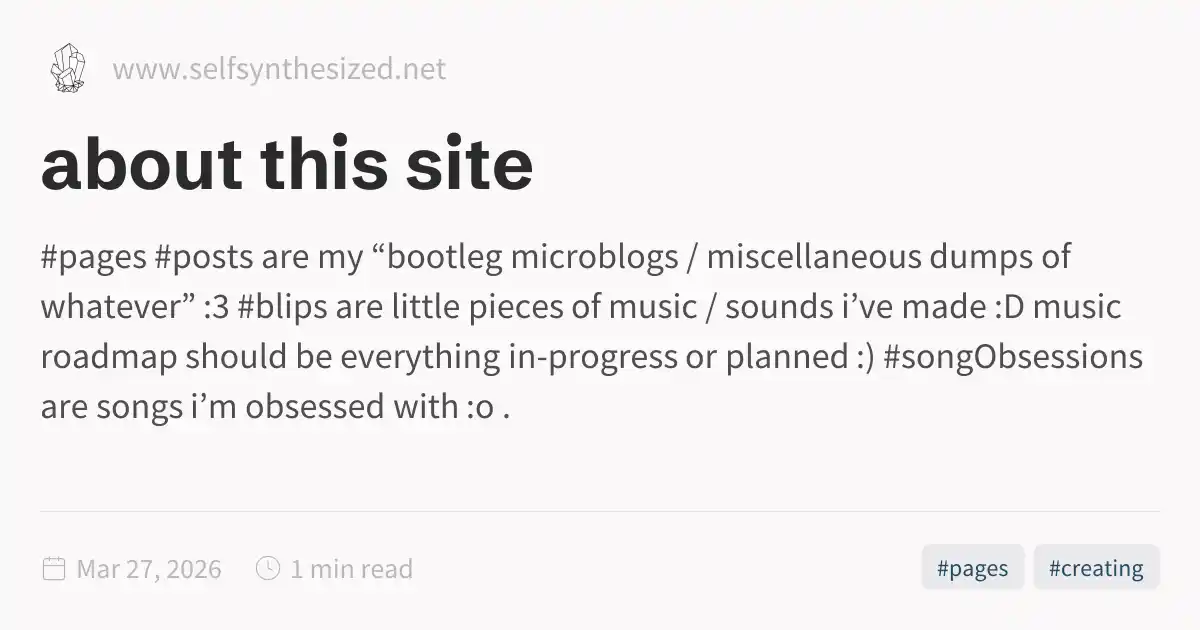
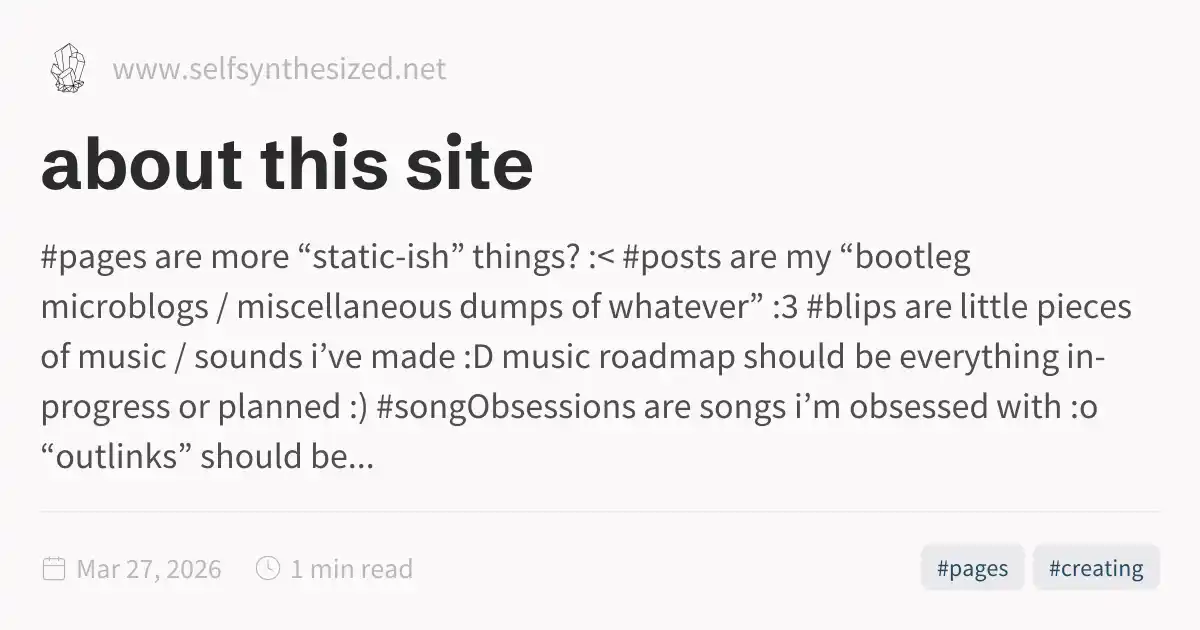
update

Changed region(s): [[0.0308, 0.3921, 0.9558, 0.5127], [0.0308, 0.5429, 0.9558, 0.6032], [0.0308, 0.6333, 0.925, 0.754]]

diff --git a/docs/pages/about-this-site.html b/docs/pages/about-this-site.html
@@ -1,5 +1,5 @@
 <!DOCTYPE html>
-<html lang="en" dir="ltr"><head><title>about this site</title><meta charset="utf-8"/><link rel="preconnect" href="https://fonts.googleapis.com"/><link rel="preconnect" href="https://fonts.gstatic.com"/><link rel="stylesheet" href="https://fonts.googleapis.com/css2?family=Schibsted Grotesk:wght@400;700&amp;family=Source Sans Pro:ital,wght@0,400;0,600;1,400;1,600&amp;family=IBM Plex Mono:wght@400;600&amp;display=swap"/><link rel="preconnect" href="https://cdnjs.cloudflare.com" crossorigin="anonymous"/><meta name="viewport" content="width=device-width, initial-scale=1.0"/><meta name="og:site_name" content="selfsynthesized"/><meta property="og:title" content="about this site"/><meta property="og:type" content="website"/><meta name="twitter:card" content="summary_large_image"/><meta name="twitter:title" content="about this site"/><meta name="twitter:description" content="#pages #posts are my “bootleg microblogs / miscellaneous dumps of whatever” :3 #blips are little pieces of music / sounds i’ve made :D music roadmap should be everything in-progress or planned :) #songObsessions are songs i’m obsessed with :o ."/><meta property="og:description" content="#pages #posts are my “bootleg microblogs / miscellaneous dumps of whatever” :3 #blips are little pieces of music / sounds i’ve made :D music roadmap should be everything in-progress or planned :) #songObsessions are songs i’m obsessed with :o ."/><meta property="og:image:alt" content="#pages #posts are my “bootleg microblogs / miscellaneous dumps of whatever” :3 #blips are little pieces of music / sounds i’ve made :D music roadmap should be everything in-progress or planned :) #songObsessions are songs i’m obsessed with :o ."/><meta property="twitter:domain" content="www.selfsynthesized.net"/><meta property="og:url" content="https://www.selfsynthesized.net/pages/about-this-site"/><meta property="twitter:url" content="https://www.selfsynthesized.net/pages/about-this-site"/><link rel="icon" href="../static/icon.png"/><meta name="description" content="#pages #posts are my “bootleg microblogs / miscellaneous dumps of whatever” :3 #blips are little pieces of music / sounds i’ve made :D music roadmap should be everything in-progress or planned :) #songObsessions are songs i’m obsessed with :o ."/><meta name="generator" content="Quartz"/><link href="../index.css" rel="stylesheet" type="text/css" data-persist="true"/><style>.expand-button {
+<html lang="en" dir="ltr"><head><title>about this site</title><meta charset="utf-8"/><link rel="preconnect" href="https://fonts.googleapis.com"/><link rel="preconnect" href="https://fonts.gstatic.com"/><link rel="stylesheet" href="https://fonts.googleapis.com/css2?family=Schibsted Grotesk:wght@400;700&amp;family=Source Sans Pro:ital,wght@0,400;0,600;1,400;1,600&amp;family=IBM Plex Mono:wght@400;600&amp;display=swap"/><link rel="preconnect" href="https://cdnjs.cloudflare.com" crossorigin="anonymous"/><meta name="viewport" content="width=device-width, initial-scale=1.0"/><meta name="og:site_name" content="selfsynthesized"/><meta property="og:title" content="about this site"/><meta property="og:type" content="website"/><meta name="twitter:card" content="summary_large_image"/><meta name="twitter:title" content="about this site"/><meta name="twitter:description" content="#pages are more “static-ish” things? :&lt; #posts are my “bootleg microblogs / miscellaneous dumps of whatever” :3 #blips are little pieces of music / sounds i’ve made :D music roadmap should be everything in-progress or planned :) #songObsessions are songs i’m obsessed with :o “outlinks” should be..."/><meta property="og:description" content="#pages are more “static-ish” things? :&lt; #posts are my “bootleg microblogs / miscellaneous dumps of whatever” :3 #blips are little pieces of music / sounds i’ve made :D music roadmap should be everything in-progress or planned :) #songObsessions are songs i’m obsessed with :o “outlinks” should be..."/><meta property="og:image:alt" content="#pages are more “static-ish” things? :&lt; #posts are my “bootleg microblogs / miscellaneous dumps of whatever” :3 #blips are little pieces of music / sounds i’ve made :D music roadmap should be everything in-progress or planned :) #songObsessions are songs i’m obsessed with :o “outlinks” should be..."/><meta property="twitter:domain" content="www.selfsynthesized.net"/><meta property="og:url" content="https://www.selfsynthesized.net/pages/about-this-site"/><meta property="twitter:url" content="https://www.selfsynthesized.net/pages/about-this-site"/><link rel="icon" href="../static/icon.png"/><meta name="description" content="#pages are more “static-ish” things? :&lt; #posts are my “bootleg microblogs / miscellaneous dumps of whatever” :3 #blips are little pieces of music / sounds i’ve made :D music roadmap should be everything in-progress or planned :) #songObsessions are songs i’m obsessed with :o “outlinks” should be..."/><meta name="generator" content="Quartz"/><link href="../index.css" rel="stylesheet" type="text/css" data-persist="true"/><style>.expand-button {
   position: absolute;
   display: flex;
   float: right;
@@ -116,22 +116,16 @@ pre:hover > .expand-button {
   font-size: 14px;
 }
[1 lines of base64/hex data omitted]
-<li>
-<p>#<a href="../tags/pages" class="internal" data-slug="tags/pages">pages</a></p>
-</li>
-<li>
-<p>#<a href="../tags/posts" class="internal" data-slug="tags/posts">posts</a> are my “bootleg microblogs / miscellaneous dumps of whatever” :3</p>
-</li>
-<li>
-<p>#<a href="../tags/blips" class="internal" data-slug="tags/blips">blips</a> are little pieces of music / sounds i’ve made :D</p>
+<li>#<a href="../tags/pages" class="internal" data-slug="tags/pages">pages</a> are more “static-ish” things? :&lt;</li>
+<li>#<a href="../tags/posts" class="internal" data-slug="tags/posts">posts</a> are my “bootleg microblogs / miscellaneous dumps of whatever” :3</li>
+<li>#<a href="../tags/blips" class="internal" data-slug="tags/blips">blips</a> are little pieces of music / sounds i’ve made :D
 <ul>
 <li><a href="../pages/music-roadmap" class="internal alias" data-slug="pages/music-roadmap">music roadmap</a> should be everything in-progress or planned :)</li>
 </ul>
 </li>
-<li>
-<p>#<a href="../tags/songObsessions" class="internal" data-slug="tags/songObsessions">songObsessions</a> are songs i’m obsessed with :o</p>
-</li>
-</ul></article><hr/><div class="page-footer"><div class="backlinks"><h3>Backlinks</h3><ul id="list-0" class="overflow"><li><a href="../" class="internal">index</a></li><li class="overflow-end"></li></ul></div></div></div><div class="right sidebar"><div class="graph"><h3>Graph View</h3><div class="graph-outer"><div class="graph-container" data-cfg="{&quot;drag&quot;:true,&quot;zoom&quot;:true,&quot;depth&quot;:1,&quot;scale&quot;:1.1,&quot;repelForce&quot;:0.5,&quot;centerForce&quot;:0.3,&quot;linkDistance&quot;:30,&quot;fontSize&quot;:0.6,&quot;opacityScale&quot;:1,&quot;showTags&quot;:true,&quot;removeTags&quot;:[],&quot;focusOnHover&quot;:false,&quot;enableRadial&quot;:false}"></div><button class="global-graph-icon" aria-label="Global Graph"><svg version="1.1" xmlns="http://www.w3.org/2000/svg" xmlns:xlink="http://www.w3.org/1999/xlink" x="0px" y="0px" viewBox="0 0 55 55" fill="currentColor" xml:space="preserve"><path d="M49,0c-3.309,0-6,2.691-6,6c0,1.035,0.263,2.009,0.726,2.86l-9.829,9.829C32.542,17.634,30.846,17,29,17
+<li>#<a href="../tags/songObsessions" class="internal" data-slug="tags/songObsessions">songObsessions</a> are songs i’m obsessed with :o</li>
+</ul>
+<p>“outlinks” should be below vvvvvv</p></article><hr/><div class="page-footer"><div class="backlinks"><h3>Backlinks</h3><ul id="list-0" class="overflow"><li><a href="../" class="internal">index</a></li><li class="overflow-end"></li></ul></div></div></div><div class="right sidebar"><div class="graph"><h3>Graph View</h3><div class="graph-outer"><div class="graph-container" data-cfg="{&quot;drag&quot;:true,&quot;zoom&quot;:true,&quot;depth&quot;:1,&quot;scale&quot;:1.1,&quot;repelForce&quot;:0.5,&quot;centerForce&quot;:0.3,&quot;linkDistance&quot;:30,&quot;fontSize&quot;:0.6,&quot;opacityScale&quot;:1,&quot;showTags&quot;:true,&quot;removeTags&quot;:[],&quot;focusOnHover&quot;:false,&quot;enableRadial&quot;:false}"></div><button class="global-graph-icon" aria-label="Global Graph"><svg version="1.1" xmlns="http://www.w3.org/2000/svg" xmlns:xlink="http://www.w3.org/1999/xlink" x="0px" y="0px" viewBox="0 0 55 55" fill="currentColor" xml:space="preserve"><path d="M49,0c-3.309,0-6,2.691-6,6c0,1.035,0.263,2.009,0.726,2.86l-9.829,9.829C32.542,17.634,30.846,17,29,17
                 s-3.542,0.634-4.898,1.688l-7.669-7.669C16.785,10.424,17,9.74,17,9c0-2.206-1.794-4-4-4S9,6.794,9,9s1.794,4,4,4
                 c0.74,0,1.424-0.215,2.019-0.567l7.669,7.669C21.634,21.458,21,23.154,21,25s0.634,3.542,1.688,4.897L10.024,42.562
                 C8.958,41.595,7.549,41,6,41c-3.309,0-6,2.691-6,6s2.691,6,6,6s6-2.691,6-6c0-1.035-0.263-2.009-0.726-2.86l12.829-12.829

diff --git a/docs/pages/the-music-i-write.html b/docs/pages/the-music-i-write.html
@@ -116,7 +116,7 @@ pre:hover > .expand-button {
   font-size: 14px;
 }
[1 lines of base64/hex data omitted]
-<p>i also hope to start writing more, and posting to this very site on a regular basis.</p>
+<p>#<a href="../tags/blips" class="internal" data-slug="tags/blips">blips</a> is where i usually put anything i’m currently working on.</p>
 <p>some songs, often ones with visual components, i post to <a href="https://youtu.be/INYoBaVAFYw?si=8uaxEj94CCN4vbyk" class="external">youtube<svg aria-hidden="true" class="external-icon" style="max-width:0.8em;max-height:0.8em;" viewBox="0 0 512 512"><path d="M320 0H288V64h32 82.7L201.4 265.4 178.7 288 224 333.3l22.6-22.6L448 109.3V192v32h64V192 32 0H480 320zM32 32H0V64 480v32H32 456h32V480 352 320H424v32 96H64V96h96 32V32H160 32z"></path></svg></a> as well</p>
 <p><iframe class="external-embed youtube" allow="fullscreen" frameborder="0" width="600px" src="https://www.youtube.com/embed/XXEMCmAFXMw"></iframe></p>
 <p><iframe class="external-embed youtube" allow="fullscreen" frameborder="0" width="600px" src="https://www.youtube.com/embed/INYoBaVAFYw"></iframe></p>

diff --git a/docs/tags/blips.html b/docs/tags/blips.html
@@ -115,6 +115,6 @@ pre:hover > .expand-button {
   padding: 0 12px;
   font-size: 14px;
 }
[2 lines of base64/hex data omitted]
 </script><script type="module" data-persist="true">function E(a,e){if(!a)return;function t(o){o.target===this&&(o.preventDefault(),o.stopPropagation(),e())}function n(o){o.key.startsWith("Esc")&&(o.preventDefault(),e())}a?.addEventListener("click",t),window.addCleanup(()=>a?.removeEventListener("click",t)),document.addEventListener("keydown",n),window.addCleanup(()=>document.removeEventListener("keydown",n))}function f(a){for(;a.firstChild;)a.removeChild(a.firstChild)}var m=class{constructor(e,t){this.container=e;this.content=t;this.setupEventListeners(),this.setupNavigationControls(),this.resetTransform()}isDragging=!1;startPan={x:0,y:0};currentPan={x:0,y:0};scale=1;MIN_SCALE=.5;MAX_SCALE=3;cleanups=[];setupEventListeners(){let e=this.onMouseDown.bind(this),t=this.onMouseMove.bind(this),n=this.onMouseUp.bind(this),o=this.onTouchStart.bind(this),r=this.onTouchMove.bind(this),i=this.onTouchEnd.bind(this),s=this.resetTransform.bind(this);this.container.addEventListener("mousedown",e),document.addEventListener("mousemove",t),document.addEventListener("mouseup",n),this.container.addEventListener("touchstart",o,{passive:!1}),document.addEventListener("touchmove",r,{passive:!1}),document.addEventListener("touchend",i),window.addEventListener("resize",s),this.cleanups.push(()=>this.container.removeEventListener("mousedown",e),()=>document.removeEventListener("mousemove",t),()=>document.removeEventListener("mouseup",n),()=>this.container.removeEventListener("touchstart",o),()=>document.removeEventListener("touchmove",r),()=>document.removeEventListener("touchend",i),()=>window.removeEventListener("resize",s))}cleanup(){for(let e of this.cleanups)e()}setupNavigationControls(){let e=document.createElement("div");e.className="mermaid-controls";let t=this.createButton("+",()=>this.zoom(.1)),n=this.createButton("-",()=>this.zoom(-.1)),o=this.createButton("Reset",()=>this.resetTransform());e.appendChild(n),e.appendChild(o),e.appendChild(t),this.container.appendChild(e)}createButton(e,t){let n=document.createElement("button");return n.textContent=e,n.className="mermaid-control-button",n.addEventListener("click",t),window.addCleanup(()=>n.removeEventListener("click",t)),n}onMouseDown(e){e.button===0&&(this.isDragging=!0,this.startPan={x:e.clientX-this.currentPan.x,y:e.clientY-this.currentPan.y},this.container.style.cursor="grabbing")}onMouseMove(e){this.isDragging&&(e.preventDefault(),this.currentPan={x:e.clientX-this.startPan.x,y:e.clientY-this.startPan.y},this.updateTransform())}onMouseUp(){this.isDragging=!1,this.container.style.cursor="grab"}onTouchStart(e){if(e.touches.length!==1)return;this.isDragging=!0;let t=e.touches[0];this.startPan={x:t.clientX-this.currentPan.x,y:t.clientY-this.currentPan.y}}onTouchMove(e){if(!this.isDragging||e.touches.length!==1)return;e.preventDefault();let t=e.touches[0];this.currentPan={x:t.clientX-this.startPan.x,y:t.clientY-this.startPan.y},this.updateTransform()}onTouchEnd(){this.isDragging=!1}zoom(e){let t=Math.min(Math.max(this.scale+e,this.MIN_SCALE),this.MAX_SCALE),n=this.content.getBoundingClientRect(),o=n.width/2,r=n.height/2,i=t-this.scale;this.currentPan.x-=o*i,this.currentPan.y-=r*i,this.scale=t,this.updateTransform()}updateTransform(){this.content.style.transform=`translate(${this.currentPan.x}px, ${this.currentPan.y}px) scale(${this.scale})`}resetTransform(){let t=this.content.querySelector("svg").getBoundingClientRect(),n=t.width/this.scale,o=t.height/this.scale;this.scale=1,this.currentPan={x:(this.container.clientWidth-n)/2,y:(this.container.clientHeight-o)/2},this.updateTransform()}},T=["--secondary","--tertiary","--gray","--light","--lightgray","--highlight","--dark","--darkgray","--codeFont"],y;document.addEventListener("nav",async()=>{let e=document.querySelector(".center").querySelectorAll("code.mermaid");if(e.length===0)return;y||=await import("https://cdnjs.cloudflare.com/ajax/libs/mermaid/11.4.0/mermaid.esm.min.mjs");let t=y.default,n=new WeakMap;for(let r of e)n.set(r,r.innerText);async function o(){for(let s of e){s.removeAttribute("data-processed");let c=n.get(s);c&&(s.innerHTML=c)}let r=T.reduce((s,c)=>(s[c]=window.getComputedStyle(document.documentElement).getPropertyValue(c),s),{}),i=document.documentElement.getAttribute("saved-theme")==="dark";t.initialize({startOnLoad:!1,securityLevel:"loose",theme:i?"dark":"base",themeVariables:{fontFamily:r["--codeFont"],primaryColor:r["--light"],primaryTextColor:r["--darkgray"],primaryBorderColor:r["--tertiary"],lineColor:r["--darkgray"],secondaryColor:r["--secondary"],tertiaryColor:r["--tertiary"],clusterBkg:r["--light"],edgeLabelBackground:r["--highlight"]}}),await t.run({nodes:e})}await o(),document.addEventListener("themechange",o),window.addCleanup(()=>document.removeEventListener("themechange",o));for(let r=0;r<e.length;r++){let v=function(){let g=l.querySelector("#mermaid-space"),h=l.querySelector(".mermaid-content");if(!h)return;f(h);let w=i.querySelector("svg").cloneNode(!0);h.appendChild(w),l.classList.add("active"),g.style.cursor="grab",u=new m(g,h)},M=function(){l.classList.remove("active"),u?.cleanup(),u=null},i=e[r],s=i.parentElement,c=s.querySelector(".clipboard-button"),d=s.querySelector(".expand-button"),p=window.getComputedStyle(c),L=c.offsetWidth+parseFloat(p.marginLeft||"0")+parseFloat(p.marginRight||"0");d.style.right=`calc(${L}px + 0.3rem)`,s.prepend(d);let l=s.querySelector("#mermaid-container");if(!l)return;let u=null;d.addEventListener("click",v),E(l,M),window.addCleanup(()=>{u?.cleanup(),d.removeEventListener("click",v)})}});
 </script><script src="https://cdn.jsdelivr.net/npm/katex@0.16.11/dist/contrib/copy-tex.min.js" type="application/javascript" data-persist="true"></script><script src="../postscript.js" type="module" data-persist="true"></script></html>

diff --git a/content/pages/about this site.md b/content/pages/about this site.md
@@ -5,14 +5,14 @@ modified: 2026-03-29T08:59
 tags:
   - pages
   - creating
-updated: 2026-05-01T17:31
+updated: 2026-05-03T13:58
 ---
 
 
-- \#[[tags/pages]]
-
+- \#[[tags/pages]] are more "static-ish" things? :<
 - \#[[tags/posts]] are my "bootleg microblogs / miscellaneous dumps of whatever" :3
 - \#[[tags/blips]] are little pieces of music / sounds i've made :D
-
 	- [[music roadmap]] should be everything in-progress or planned :)
 - \#[[tags/songObsessions]] are songs i'm obsessed with :o
+
+"outlinks" should be below vvvvvv

diff --git a/content/pages/the music i write.md b/content/pages/the music i write.md
@@ -5,10 +5,11 @@ tags:
   - pages
   - creating
   - music
+updated: 2026-05-03T14:00
 ---
 hello! i write music under the alias `kaitwillows`.  all of my "finished" work goes on [my bandcamp page](https://kaitwillows.bandcamp.com/track/parksville). i do not use generative AI in anything i create.
 
-i also hope to start writing more, and posting to this very site on a regular basis.
+\#[[tags/blips]] is where i usually put anything i'm currently working on.
 
 some songs, often ones with visual components, i post to [youtube](https://youtu.be/INYoBaVAFYw?si=8uaxEj94CCN4vbyk) as well
 